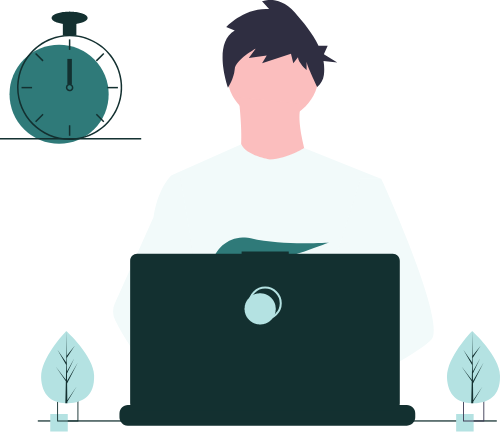
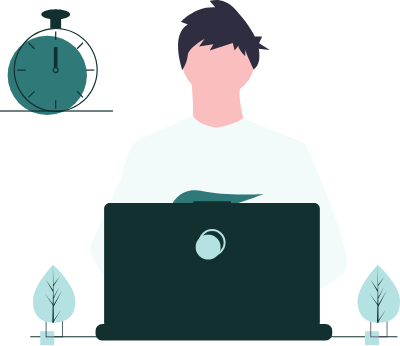
fix pictures size

diff --git a/src/components/image-wrapper.js b/src/components/image-wrapper.js
@@ -10,12 +10,11 @@ const ImageWrapper = ({ children }) => {
 export default ImageWrapper
 
 const Wrapper = styled.div`
+  /* text-align: center;
+  display: block; */
   display: flex;
   justify-content: center;
   align-items: center;
-  img {
-    object-fit: contain !important;
-  }
 
   @media (max-width: 599px) {
     margin: 2rem auto;
